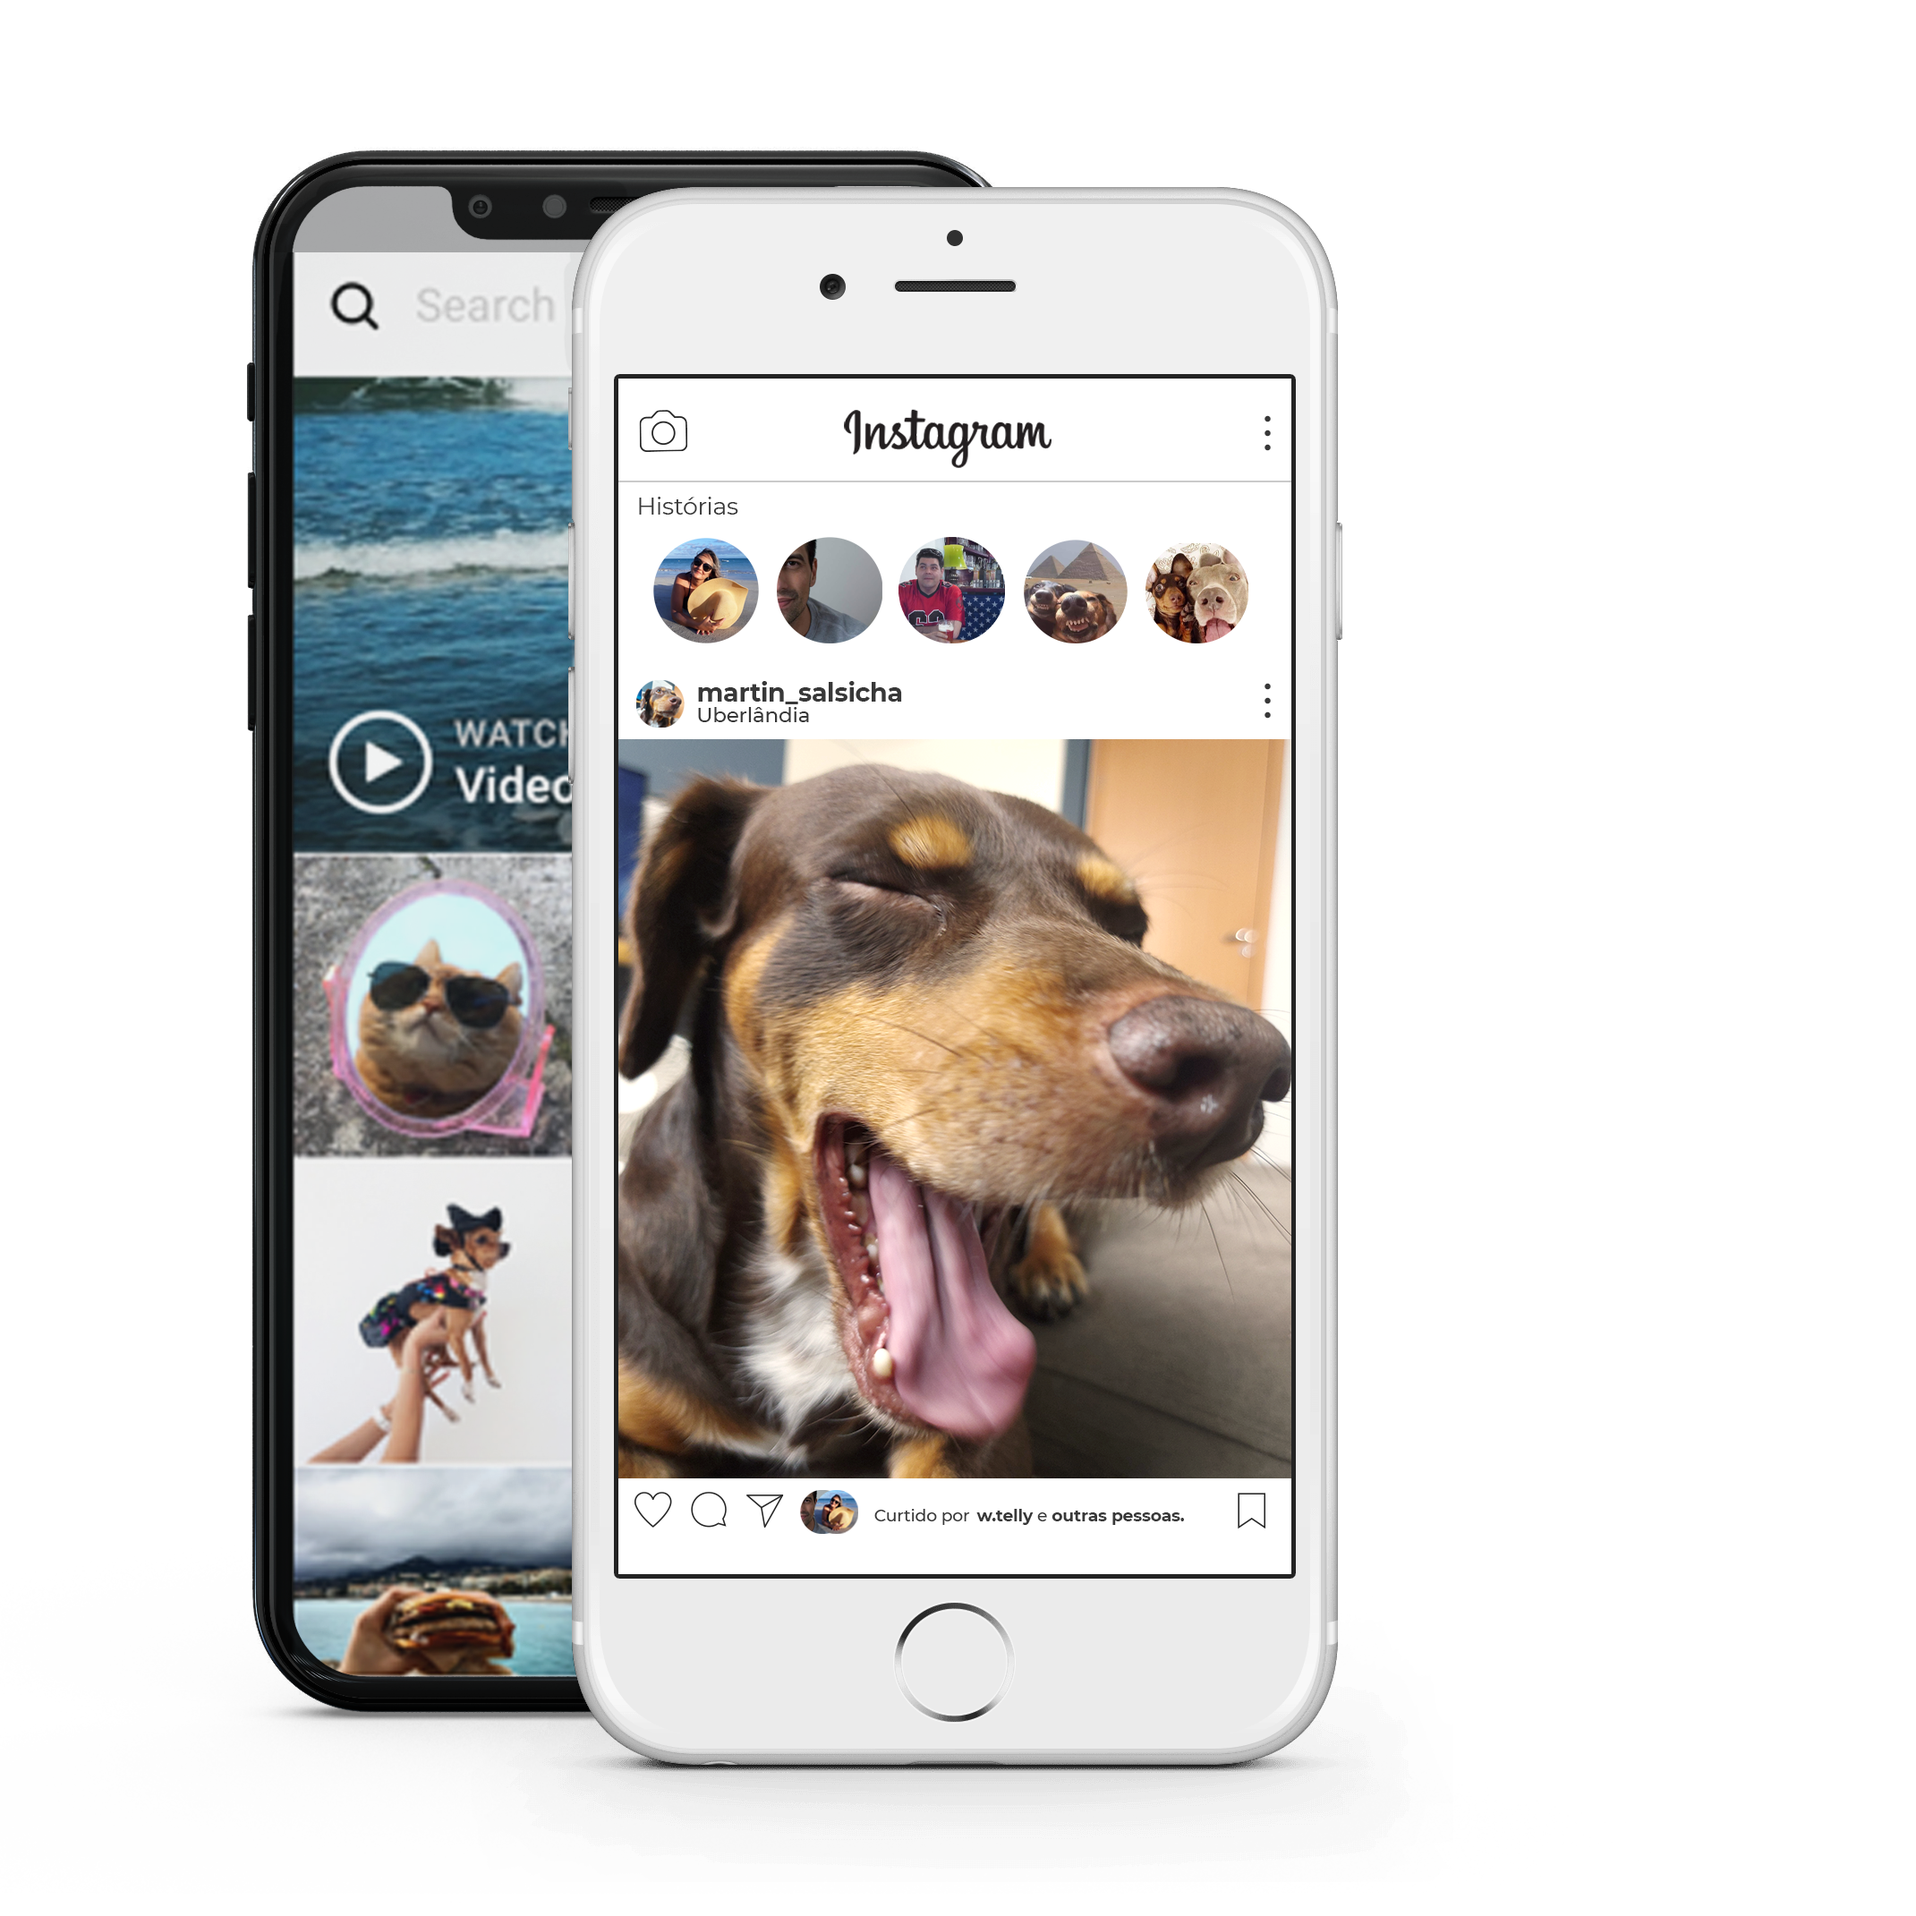
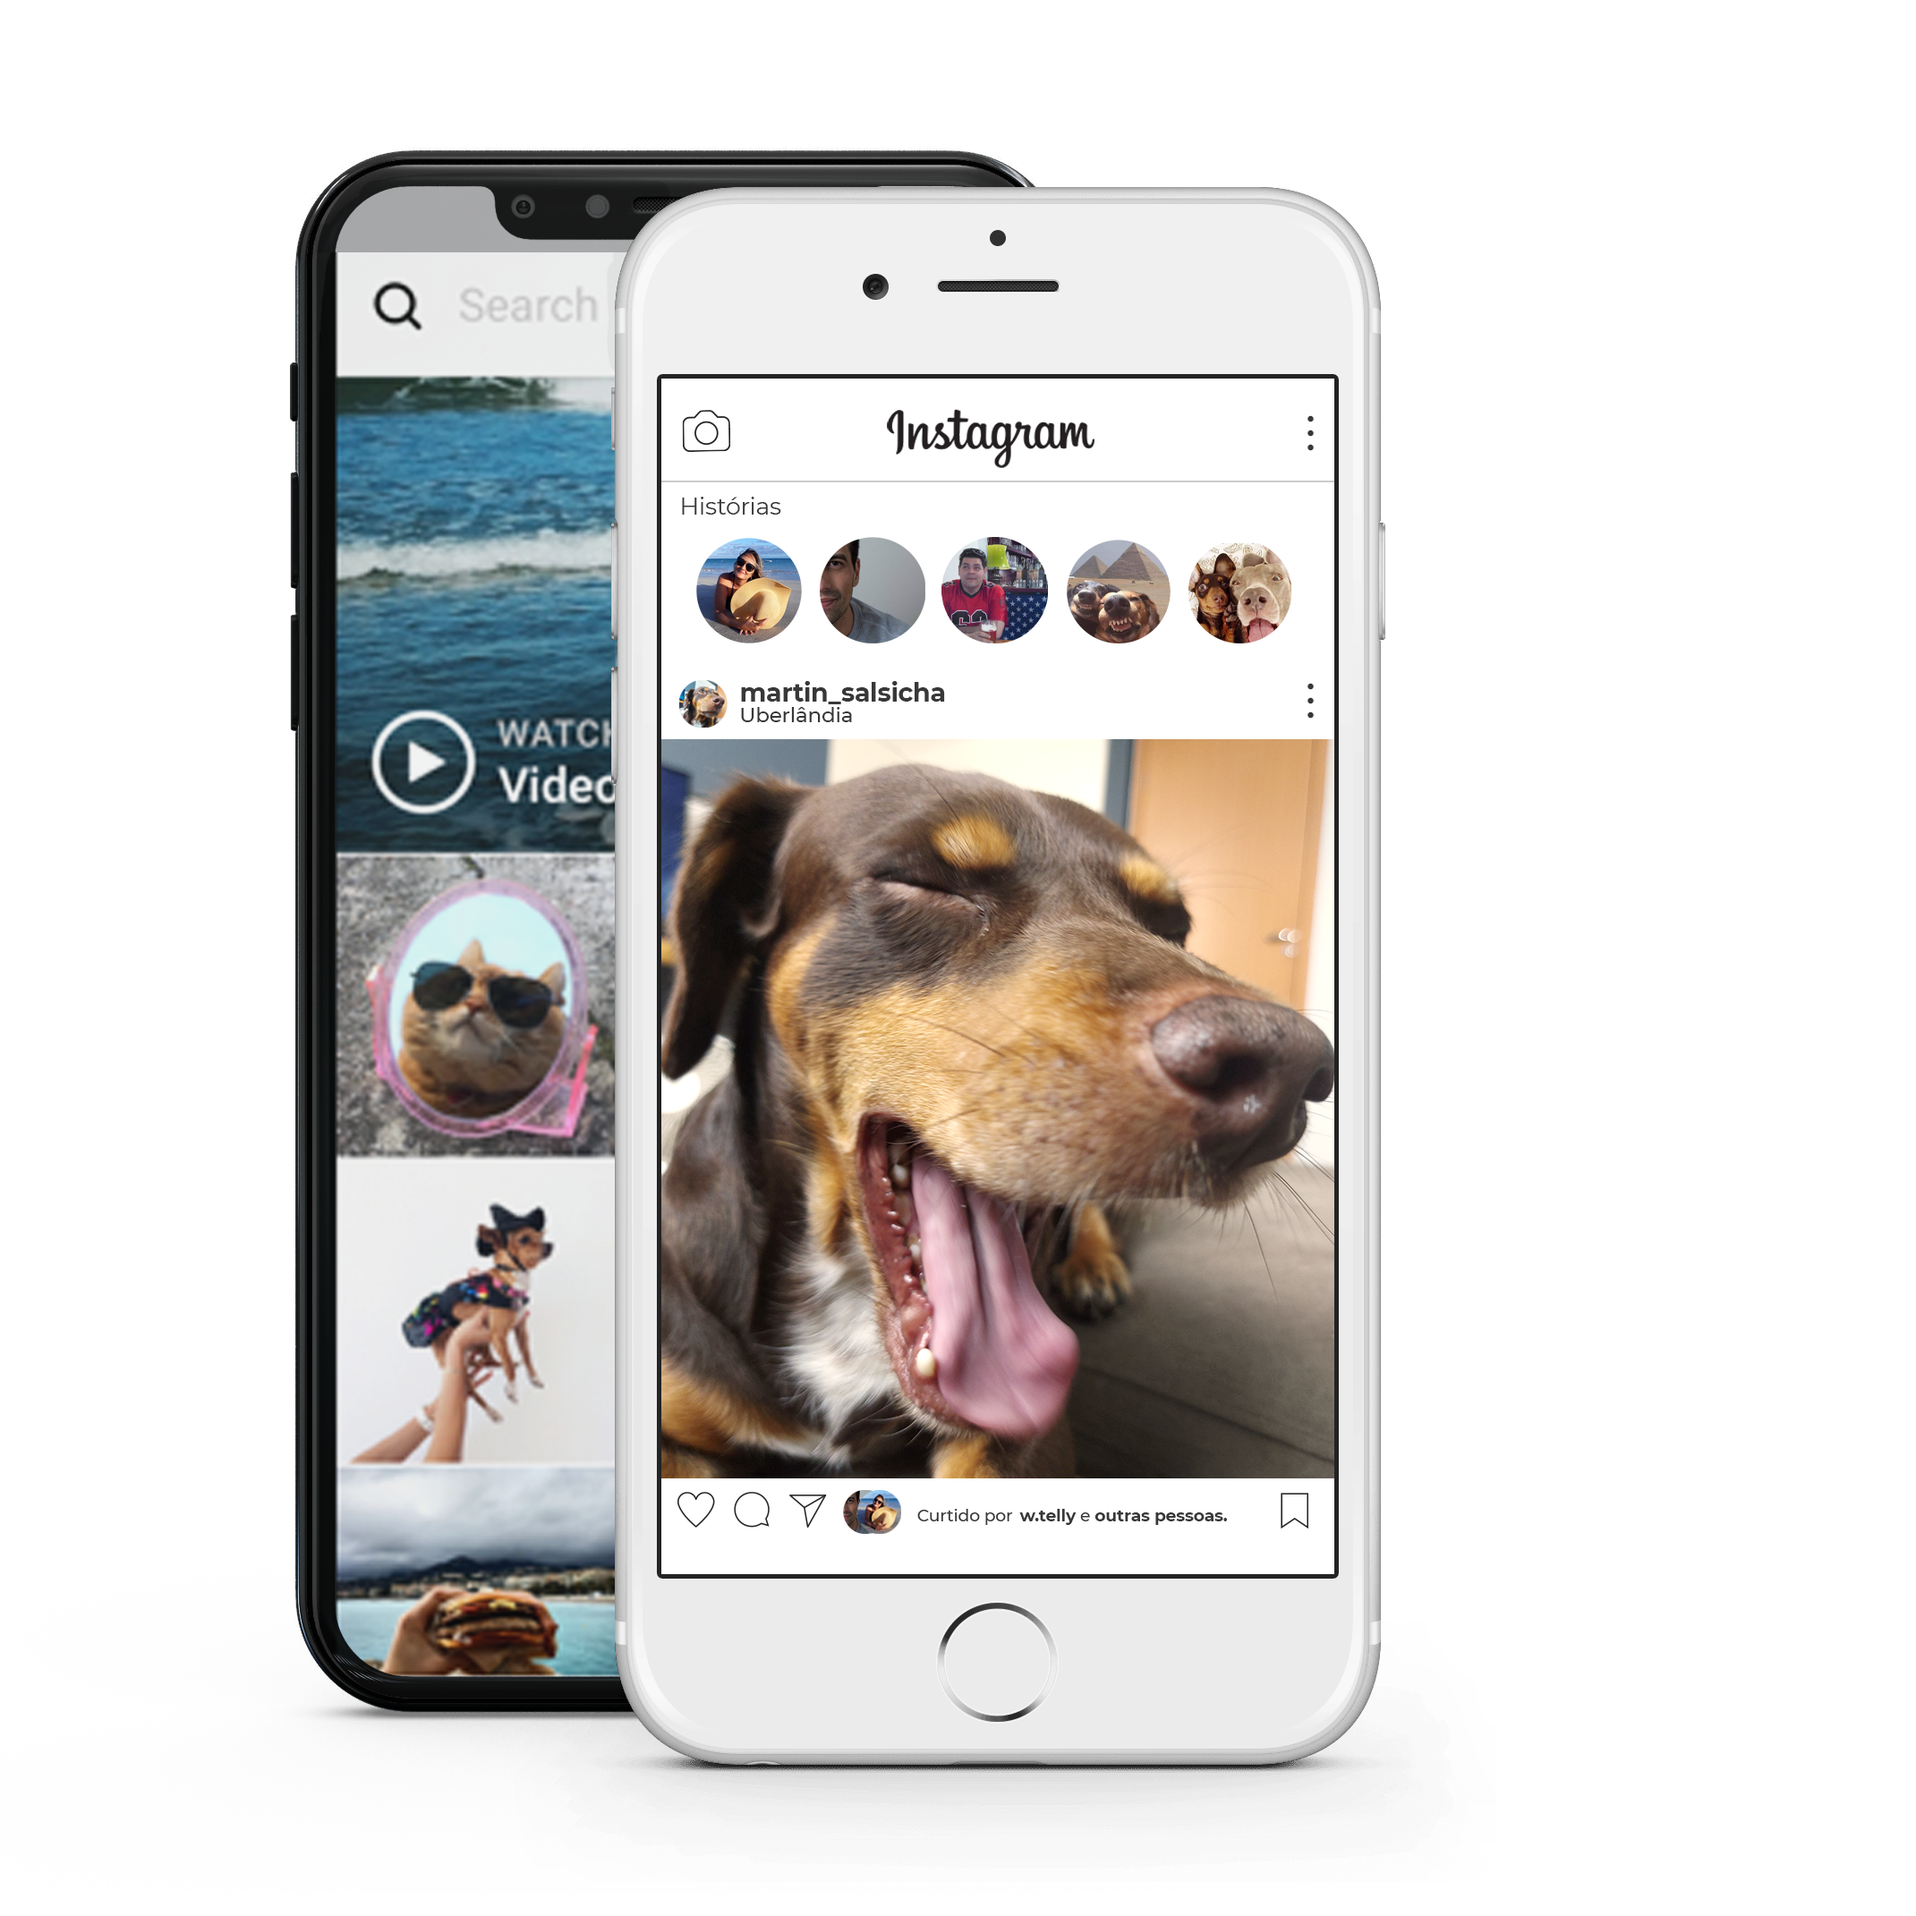
commit

diff --git a/style.css b/style.css
@@ -22,7 +22,7 @@ body {
     display: flex;
     align-items: center;
     justify-content: start;
-    width: 50%;
+    width: 60%;
     height: 100vh;
 }
 
@@ -39,8 +39,8 @@ body {
 
 .instagram-continue {
     display: flex;
-    align-items: center;
-    justify-content: space-around;
+    align-items: center; /* horizontal */
+    justify-content: space-around; /* vertical */
     flex-direction: column;
     width: 50%;
     height: 40rem;
@@ -51,11 +51,11 @@ body {
     justify-content: space-between;
     align-items: center;
     flex-direction: column;
-    background-color: #ffffffff;
+    background-color: #ffffff;
     width: 100%;
     padding: 1.3rem 0;
     border: 1px solid lightgray;
-}
+}   
 
 .group:nth-child(1) {
     min-height: 19rem;
@@ -94,7 +94,7 @@ color: rgb(160,160,160);
 }
 
 .link-blue {
-    color: #0095f6
+    color: #0095f6;
 }
 
 .get-the-app {
